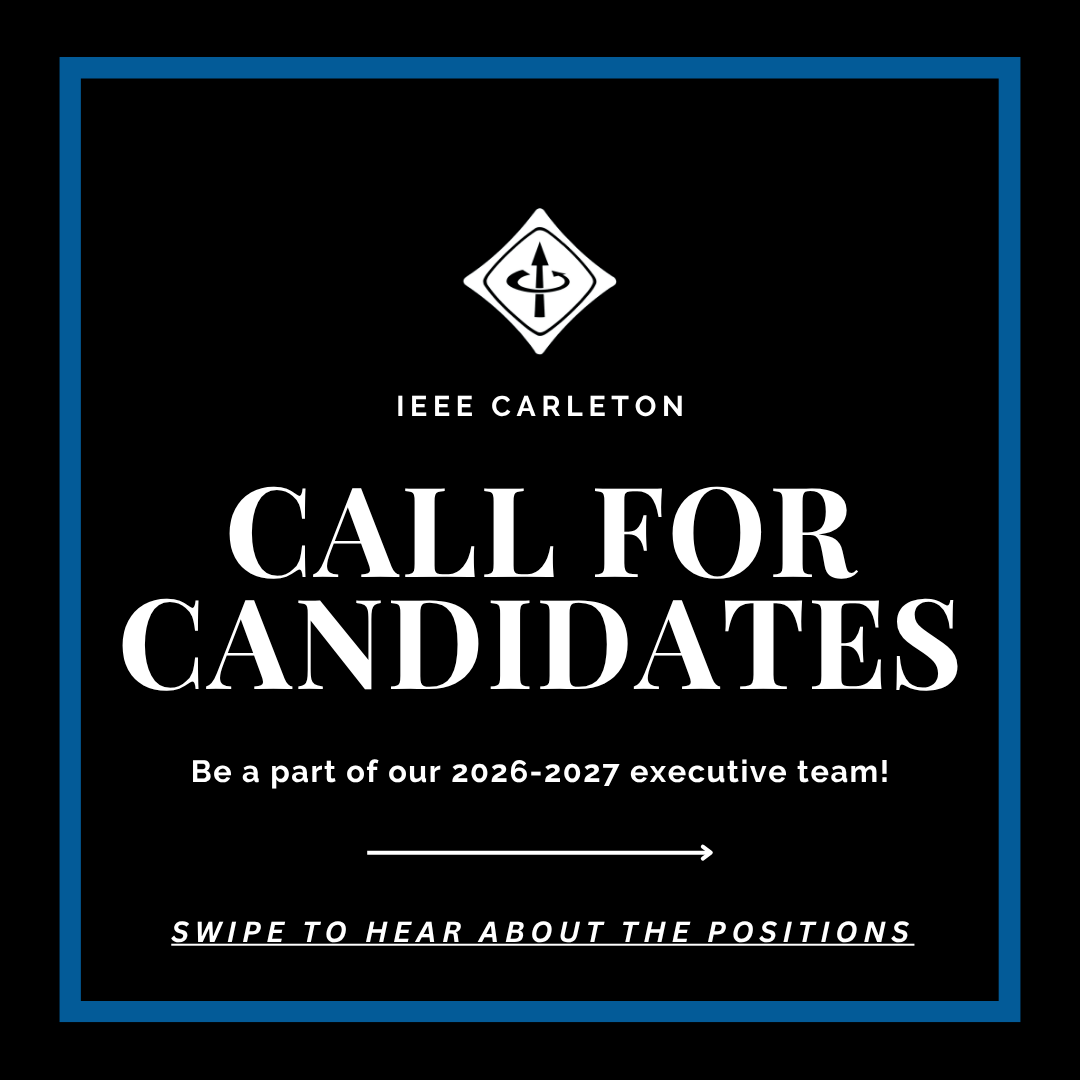
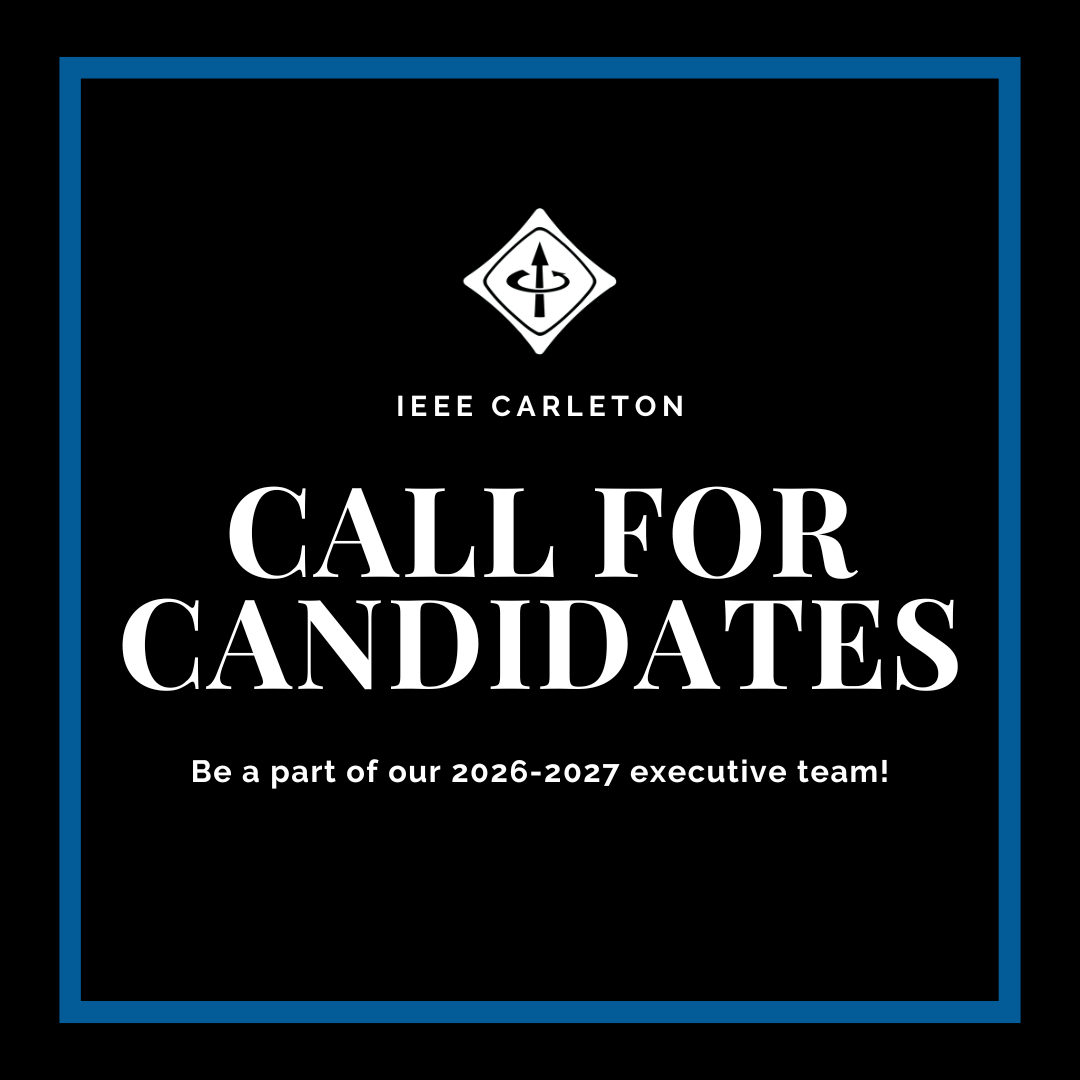
Fixing candidate part

Changed region(s): [[0.1528, 0.8556, 0.8556, 0.8861], [0.3361, 0.7639, 0.6722, 0.7944]]

diff --git a/output/2026-03-20.html b/output/2026-03-20.html
@@ -1,3 +1,3 @@
-<html lang="en"><head><meta charSet="utf-8"/><meta name="viewport" content="width=device-width, initial-scale=1, minimum-scale=1, maximum-scale=1"/><link rel="stylesheet" href="style.css"/><title>IEEE Carleton Newsletter 2026-03-20.js</title></head><body><div style="font-family:Helvetica;margin:auto;width:100%;max-width:900px;padding-top:5vh 0 5vh 0;background-color:rgb(246, 250, 255);border-radius:10px"><div style="padding:0 2vw 2vh 2vw"><div><a style="width:40vw;margin:auto" href="https://ieeecarleton.ca" target="_blank"><img width="100%" src="https://raw.githubusercontent.com/CarletonSLAM/CarletonNewsletter/master/img/branch_logo_blue.png"/></a><div style="color:rgb(0, 98, 155);text-align:center;font-size:20px"><h2>MARCH 20, 2026</h2><p>Hope your term is going well!</p><p>If you are having trouble viewing this as an email, please contact publications@ieeecarleton.ca.</p></div><div style="color:rgb(0, 98, 155);text-align:center;font-size:0.9rem"><div style="margin-bottom:1vh"><span><a target="_blank" style="display:inline-block;position:relative;height:40px;line-height:40px;border-radius:5px;font-size:15px;font-weight:bold;background-color:rgb(0, 98, 155);color:#fff;text-decoration:none;padding:0 15px;margin:10px 20px 10px 20px;width:120px" href="https://www.instagram.com/ieeecarleton/"><span>INSTAGRAM</span></a>  </span><span><a target="_blank" style="display:inline-block;position:relative;height:40px;line-height:40px;border-radius:5px;font-size:15px;font-weight:bold;background-color:rgb(0, 98, 155);color:#fff;text-decoration:none;padding:0 15px;margin:10px 20px 10px 20px;width:120px" href="https://www.linkedin.com/company/ieeecarletonstudentbranch/"><span>LINKEDIN</span></a>  </span><span><a target="_blank" style="display:inline-block;position:relative;height:40px;line-height:40px;border-radius:5px;font-size:15px;font-weight:bold;background-color:rgb(0, 98, 155);color:#fff;text-decoration:none;padding:0 15px;margin:10px 20px 10px 20px;width:120px" href="https://www.facebook.com/ieeecarleton"><span>FACEBOOK</span></a>  </span></div></div></div><div style="border:rgb(0, 98, 155) 5px solid;background-color:#fff;color:#00629B;text-align:center;margin:3vh;padding-bottom:2vh"><div style="padding:1.2vh 0 1.2vh 0;font-size:2rem;background-color:rgb(0, 127, 202);color:#FFF;font-weight:bold">NEWS!</div><div style="padding:1vh 10px 0 10px"></div></div><div style="border:rgb(0, 98, 155) 5px solid;background-color:#fff;color:#00629B;text-align:center;margin:3vh;padding-bottom:2vh"><div style="padding:1.2vh 0 1.2vh 0;font-size:2rem;background-color:rgb(0, 127, 202);color:#FFF;font-weight:bold">IEEE Carleton AGM</div><div><img width="100%" src="https://raw.githubusercontent.com/CarletonSLAM/CarletonNewsletter/master/img/IEEE AGM 2026.png"/></div><div style="padding:1vh 10px 0 10px"><h2>ME4332 - Wednesday, April 1st 6 - 8 pm</h2><p>Come see what the 2025-2026 executives have been doing this year and see the candidates running for our 2026-2027 year! </p></div></div><div style="border:rgb(0, 98, 155) 5px solid;background-color:#fff;color:#00629B;text-align:center;margin:3vh;padding-bottom:2vh"><div style="padding:1.2vh 0 1.2vh 0;font-size:2rem;background-color:rgb(0, 127, 202);color:#FFF;font-weight:bold">Run for the IEEE &amp; WIE 2026-2027 executive team! </div><div><img width="100%" src="https://raw.githubusercontent.com/CarletonSLAM/CarletonNewsletter/master/img/IEEE Carleton Executive 2026 - WIE.png"/></div><div style="padding:1vh 10px 0 10px"><h2>Present your election platform at our AGM: Wednesday, April 1st 6 - 8 pm, in ME4332</h2><div>Find the nomination form and election platform to run here: <a href= "https://linktr.ee/ieee.carleton">IEEE Carleton Linktree</a></div></div></div><div style="border:rgb(0, 98, 155) 5px solid;background-color:#fff;color:#00629B;text-align:center;margin:3vh;padding-bottom:2vh"><div style="padding:1.2vh 0 1.2vh 0;font-size:2rem;background-color:rgb(0, 127, 202);color:#FFF;font-weight:bold">EVENTS!</div><div style="padding:1vh 10px 0 10px"></div></div><div style="border:rgb(0, 98, 155) 5px solid;background-color:#fff;color:#00629B;text-align:center;margin:3vh;padding-bottom:2vh"><div style="padding:1.2vh 0 1.2vh 0;font-size:2rem;background-color:rgb(0, 127, 202);color:#FFF;font-weight:bold">WIE Prof Talk</div><div><img width="100%" src="https://raw.githubusercontent.com/CarletonSLAM/CarletonNewsletter/master/img/avani_jo_spac_2024.jpg"/></div><div style="padding:1vh 10px 0 10px"><h2>Wednesday, March 25th at 6 pm</h2><p>Make sure to check the carletonwie instagram closer to the date for more details!</p></div></div><div style="border:rgb(0, 98, 155) 5px solid;background-color:#fff;color:#00629B;text-align:center;margin:3vh;padding-bottom:2vh"><div style="padding:1.2vh 0 1.2vh 0;font-size:2rem;background-color:rgb(0, 127, 202);color:#FFF;font-weight:bold">WIE Cocoa &amp; Cram</div><div><img width="100%" src="https://raw.githubusercontent.com/CarletonSLAM/CarletonNewsletter/master/img/hotchocolateicon.png"/></div><div style="padding:1vh 10px 0 10px"><h2>April 10th 12-4</h2><p>Make sure to check the carletonwie instagram closer to the date for more details!</p></div></div><div style="border:rgb(0, 98, 155) 5px solid;background-color:#fff;color:#00629B;text-align:center;margin:3vh;padding-bottom:2vh"><div style="padding:1.2vh 0 1.2vh 0;font-size:2rem;background-color:rgb(0, 127, 202);color:#FFF;font-weight:bold">Ongoing</div><div style="padding:1vh 10px 0 10px"></div></div><div style="border:rgb(0, 98, 155) 5px solid;background-color:#fff;color:#00629B;text-align:center;margin:3vh;padding-bottom:2vh"><div style="padding:1.2vh 0 1.2vh 0;font-size:2rem;background-color:rgb(0, 127, 202);color:#FFF;font-weight:bold">SLAM</div><div><img width="100%" src="https://raw.githubusercontent.com/CarletonSLAM/CarletonNewsletter/master/img/SLAM_poster.png"/></div><div style="padding:1vh 10px 0 10px"><p>Need resources, advice, and/or tools for your project?
+<html lang="en"><head><meta charSet="utf-8"/><meta name="viewport" content="width=device-width, initial-scale=1, minimum-scale=1, maximum-scale=1"/><link rel="stylesheet" href="style.css"/><title>IEEE Carleton Newsletter 2026-03-20.js</title></head><body><div style="font-family:Helvetica;margin:auto;width:100%;max-width:900px;padding-top:5vh 0 5vh 0;background-color:rgb(246, 250, 255);border-radius:10px"><div style="padding:0 2vw 2vh 2vw"><div><a style="width:40vw;margin:auto" href="https://ieeecarleton.ca" target="_blank"><img width="100%" src="https://raw.githubusercontent.com/CarletonSLAM/CarletonNewsletter/master/img/branch_logo_blue.png"/></a><div style="color:rgb(0, 98, 155);text-align:center;font-size:20px"><h2>MARCH 20, 2026</h2><p>Hope your term is going well!</p><p>If you are having trouble viewing this as an email, please contact publications@ieeecarleton.ca.</p></div><div style="color:rgb(0, 98, 155);text-align:center;font-size:0.9rem"><div style="margin-bottom:1vh"><span><a target="_blank" style="display:inline-block;position:relative;height:40px;line-height:40px;border-radius:5px;font-size:15px;font-weight:bold;background-color:rgb(0, 98, 155);color:#fff;text-decoration:none;padding:0 15px;margin:10px 20px 10px 20px;width:120px" href="https://www.instagram.com/ieeecarleton/"><span>INSTAGRAM</span></a>  </span><span><a target="_blank" style="display:inline-block;position:relative;height:40px;line-height:40px;border-radius:5px;font-size:15px;font-weight:bold;background-color:rgb(0, 98, 155);color:#fff;text-decoration:none;padding:0 15px;margin:10px 20px 10px 20px;width:120px" href="https://www.linkedin.com/company/ieeecarletonstudentbranch/"><span>LINKEDIN</span></a>  </span><span><a target="_blank" style="display:inline-block;position:relative;height:40px;line-height:40px;border-radius:5px;font-size:15px;font-weight:bold;background-color:rgb(0, 98, 155);color:#fff;text-decoration:none;padding:0 15px;margin:10px 20px 10px 20px;width:120px" href="https://www.facebook.com/ieeecarleton"><span>FACEBOOK</span></a>  </span></div></div></div><div style="border:rgb(0, 98, 155) 5px solid;background-color:#fff;color:#00629B;text-align:center;margin:3vh;padding-bottom:2vh"><div style="padding:1.2vh 0 1.2vh 0;font-size:2rem;background-color:rgb(0, 127, 202);color:#FFF;font-weight:bold">NEWS!</div><div style="padding:1vh 10px 0 10px"></div></div><div style="border:rgb(0, 98, 155) 5px solid;background-color:#fff;color:#00629B;text-align:center;margin:3vh;padding-bottom:2vh"><div style="padding:1.2vh 0 1.2vh 0;font-size:2rem;background-color:rgb(0, 127, 202);color:#FFF;font-weight:bold">IEEE Carleton AGM</div><div><img width="100%" src="https://raw.githubusercontent.com/CarletonSLAM/CarletonNewsletter/master/img/IEEE AGM 2026.png"/></div><div style="padding:1vh 10px 0 10px"><h2>ME4332 - Wednesday, April 1st 6 - 8 pm</h2><p>Come see what the 2025-2026 executives have been doing this year and see the candidates running for our 2026-2027 year! </p></div></div><div style="border:rgb(0, 98, 155) 5px solid;background-color:#fff;color:#00629B;text-align:center;margin:3vh;padding-bottom:2vh"><div style="padding:1.2vh 0 1.2vh 0;font-size:2rem;background-color:rgb(0, 127, 202);color:#FFF;font-weight:bold">Run for the IEEE &amp; WIE 2026-2027 executive team! </div><div><img width="100%" src="https://raw.githubusercontent.com/CarletonSLAM/CarletonNewsletter/master/img/IEEE Carleton Executive 2026.png"/></div><div style="padding:1vh 10px 0 10px"><h2>Present your election platform at our AGM: Wednesday, April 1st 6 - 8 pm, in ME4332</h2><div>Find the nomination form and election platform to run here: <a href= "https://linktr.ee/ieee.carleton">IEEE Carleton Linktree</a></div></div></div><div style="border:rgb(0, 98, 155) 5px solid;background-color:#fff;color:#00629B;text-align:center;margin:3vh;padding-bottom:2vh"><div style="padding:1.2vh 0 1.2vh 0;font-size:2rem;background-color:rgb(0, 127, 202);color:#FFF;font-weight:bold">EVENTS!</div><div style="padding:1vh 10px 0 10px"></div></div><div style="border:rgb(0, 98, 155) 5px solid;background-color:#fff;color:#00629B;text-align:center;margin:3vh;padding-bottom:2vh"><div style="padding:1.2vh 0 1.2vh 0;font-size:2rem;background-color:rgb(0, 127, 202);color:#FFF;font-weight:bold">WIE Prof Talk</div><div><img width="100%" src="https://raw.githubusercontent.com/CarletonSLAM/CarletonNewsletter/master/img/avani_jo_spac_2024.jpg"/></div><div style="padding:1vh 10px 0 10px"><h2>Wednesday, March 25th at 6 pm</h2><p>Make sure to check the carletonwie instagram closer to the date for more details!</p></div></div><div style="border:rgb(0, 98, 155) 5px solid;background-color:#fff;color:#00629B;text-align:center;margin:3vh;padding-bottom:2vh"><div style="padding:1.2vh 0 1.2vh 0;font-size:2rem;background-color:rgb(0, 127, 202);color:#FFF;font-weight:bold">WIE Cocoa &amp; Cram</div><div><img width="100%" src="https://raw.githubusercontent.com/CarletonSLAM/CarletonNewsletter/master/img/Cocoa and cram icon winter 2026.png"/></div><div style="padding:1vh 10px 0 10px"><h2>April 10th 12-4</h2><p>Make sure to check the carletonwie instagram closer to the date for more details!</p></div></div><div style="border:rgb(0, 98, 155) 5px solid;background-color:#fff;color:#00629B;text-align:center;margin:3vh;padding-bottom:2vh"><div style="padding:1.2vh 0 1.2vh 0;font-size:2rem;background-color:rgb(0, 127, 202);color:#FFF;font-weight:bold">Ongoing</div><div style="padding:1vh 10px 0 10px"></div></div><div style="border:rgb(0, 98, 155) 5px solid;background-color:#fff;color:#00629B;text-align:center;margin:3vh;padding-bottom:2vh"><div style="padding:1.2vh 0 1.2vh 0;font-size:2rem;background-color:rgb(0, 127, 202);color:#FFF;font-weight:bold">SLAM</div><div><img width="100%" src="https://raw.githubusercontent.com/CarletonSLAM/CarletonNewsletter/master/img/SLAM_poster.png"/></div><div style="padding:1vh 10px 0 10px"><p>Need resources, advice, and/or tools for your project?
           Fill out this form and the SLAM team can help you with 3D printing and our various other tools/services! 
           Your project will then be rejected or approved at the discretion of the SLAM Lead.</p><p>You may reach the SLAM Lead at: slamlead@ieeecarleton.ca</p><div><a href= "https://docs.google.com/forms/d/e/1FAIpQLSfxxIQEnLlSaJsXSakaBcax5SLRToCbogUNEasgU6T8TLmydg/viewform">Project Proposal Form</a></div></div></div><div style="text-align:center;color:rgb(0, 98, 155);font-size:15px"><div><span><a target="_blank" style="color:rgb(0, 98, 155);font-weight:bold" href="https://www.ieeecarleton.ca/"><span style="color:rgb(0, 98, 155);font-weight:bold">WEBSITE</span></a> | </span><span><a target="_blank" style="color:rgb(0, 98, 155);font-weight:bold" href="mailto:info@ieeecarleton.ca"><span style="color:rgb(0, 98, 155);font-weight:bold">CONTACT US</span></a> | </span><span><a target="_blank" style="color:rgb(0, 98, 155);font-weight:bold" href="https://forms.gle/7zuuFTyRsDoZFCVG8"><span style="color:rgb(0, 98, 155);font-weight:bold">UNSUBSCRIBE</span></a>  </span></div><p>Newsletter made by:</p><p>IEEE Carleton University Student Branch</p></div></div></div></body></html>

diff --git a/models/newsletters/2026-03-20.js b/models/newsletters/2026-03-20.js
@@ -35,7 +35,7 @@ module.exports = {
     {
       title: `Run for the IEEE & WIE 2026-2027 executive team! `,
       img: `IEEE Carleton Executive 2026.png`,
-      img: `IEEE Carleton Executive 2026 - WIE.png`,
+      //img: `IEEE Carleton Executive 2026 - WIE.png`,
       body: [
         {
           tag: "h2",
